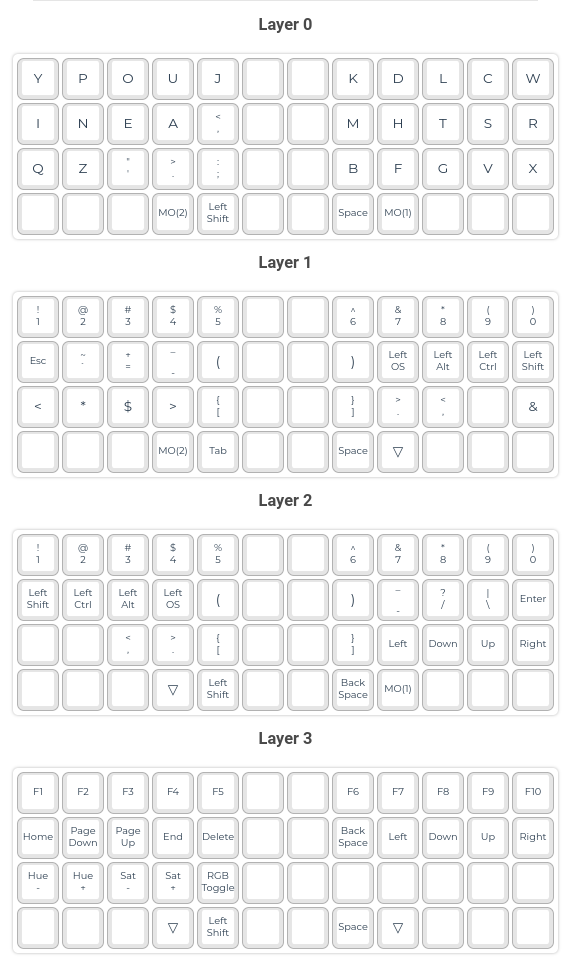
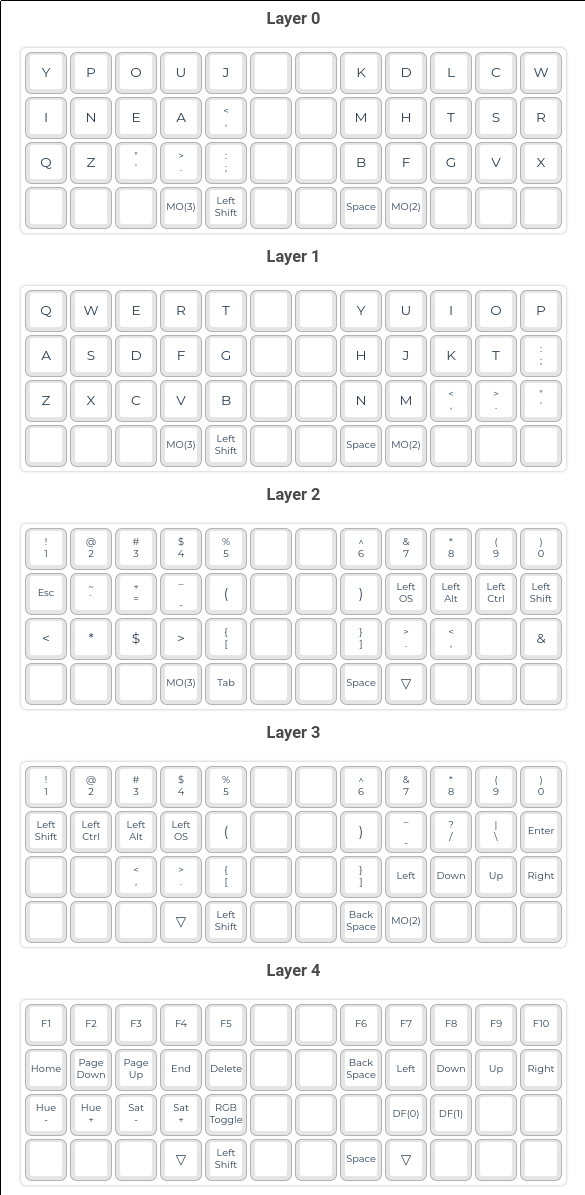
Add QWERTY default layer so friends can try the Planck

diff --git a/keymap.c b/keymap.c
@@ -2,14 +2,17 @@
 
 #include "oneshot.h"
 
-#define LA_ONE MO(ONE)
-#define LA_TWO MO(TWO)
+#define LA_RIGHT  MO(RIGHT)
+#define LA_LEFT   MO(LEFT)
+#define DF_MTGAP  DF(MTGAP)
+#define DF_QWERTY DF(QWERTY)
 
 enum layers {
-    ZERO,
-    ONE,
-    TWO,
-    THREE,
+    MTGAP,
+    QWERTY,
+    RIGHT,
+    LEFT,
+    BOTH,
 };
 
 enum keycodes {
@@ -23,38 +26,46 @@ enum keycodes {
 const uint16_t PROGMEM keymaps[][MATRIX_ROWS][MATRIX_COLS] = {
 
 	[0] = LAYOUT_ortho_4x12(
-                KC_Y,  KC_P,  KC_O,    KC_U,   KC_J,    KC_NO, KC_NO, KC_K,   KC_D,   KC_L,  KC_C,  KC_W,
-                KC_I,  KC_N,  KC_E,    KC_A,   KC_COMM, KC_NO, KC_NO, KC_M,   KC_H,   KC_T,  KC_S,  KC_R,
-                KC_Q,  KC_Z,  KC_QUOT, KC_DOT, KC_SCLN, KC_NO, KC_NO, KC_B,   KC_F,   KC_G,  KC_V,  KC_X,
-                KC_NO, KC_NO, KC_NO,   LA_TWO, KC_LSFT, KC_NO, KC_NO, KC_SPC, LA_ONE, KC_NO, KC_NO, KC_NO
+                KC_Y,   KC_P, KC_O,       KC_U, KC_J,    KC_NO, KC_NO,   KC_K, KC_D,      KC_L, KC_C,  KC_W,
+                KC_I,   KC_N, KC_E,       KC_A, KC_COMM, KC_NO, KC_NO,   KC_M, KC_H,      KC_T, KC_S,  KC_R,
+                KC_Q,   KC_Z, KC_QUOT,  KC_DOT, KC_SCLN, KC_NO, KC_NO,   KC_B, KC_F,      KC_G, KC_V,  KC_X,
+                KC_NO, KC_NO, KC_NO,   LA_LEFT, KC_LSFT, KC_NO, KC_NO, KC_SPC, LA_RIGHT, KC_NO, KC_NO, KC_NO
                 ),
 
 	[1] = LAYOUT_ortho_4x12(
-                KC_1,   KC_2,    KC_3,   KC_4,    KC_5,    KC_NO, KC_NO, KC_6,    KC_7,    KC_8,    KC_9,    KC_0,
-                KC_ESC, KC_GRV,  KC_EQL, KC_MINS, KC_LPRN, KC_NO, KC_NO, KC_RPRN, OS_CMD,  OS_ALT,  OS_CTL,  OS_SFT,
-                KC_LT,  KC_ASTR, KC_DLR, KC_GT,   KC_LBRC, KC_NO, KC_NO, KC_RBRC, KC_DOT,  KC_COMM, KC_NO,   KC_AMPR,
-                KC_NO,  KC_NO,   KC_NO,  LA_TWO,  KC_TAB,  KC_NO, KC_NO, KC_SPC,  KC_TRNS, KC_NO,   KC_NO,   KC_NO
+                KC_Q,  KC_W,  KC_E,  KC_R,    KC_T,    KC_NO, KC_NO, KC_Y,   KC_U,     KC_I,    KC_O,   KC_P,
+                KC_A,  KC_S,  KC_D,  KC_F,    KC_G,    KC_NO, KC_NO, KC_H,   KC_J,     KC_K,    KC_L,   KC_SCLN,
+                KC_Z,  KC_X,  KC_C,  KC_V,    KC_B,    KC_NO, KC_NO, KC_N,   KC_M,     KC_COMM, KC_DOT, KC_QUOT,
+                KC_NO, KC_NO, KC_NO, LA_LEFT, KC_LSFT, KC_NO, KC_NO, KC_SPC, LA_RIGHT, KC_NO,   KC_NO,  KC_NO
                 ),
 
 	[2] = LAYOUT_ortho_4x12(
-                KC_1,    KC_2,    KC_3,    KC_4,    KC_5,    KC_NO, KC_NO, KC_6,    KC_7,    KC_8,    KC_9,    KC_0,
-                OS_SFT,  OS_CTL,  OS_ALT,  OS_CMD,  KC_LPRN, KC_NO, KC_NO, KC_RPRN, KC_MINS, KC_SLSH, KC_BSLS, KC_ENT,
-                KC_NO,   KC_NO,   KC_COMM, KC_DOT,  KC_LBRC, KC_NO, KC_NO, KC_RBRC, KC_LEFT, KC_DOWN, KC_UP,   KC_RGHT,
-                KC_NO,   KC_NO,   KC_NO,   KC_TRNS, KC_LSFT, KC_NO, KC_NO, KC_BSPC, LA_ONE,  KC_NO,   KC_NO,   KC_NO
+                KC_1,   KC_2,    KC_3,   KC_4,    KC_5,    KC_NO, KC_NO, KC_6,    KC_7,    KC_8,    KC_9,   KC_0,
+                KC_ESC, KC_GRV,  KC_EQL, KC_MINS, KC_LPRN, KC_NO, KC_NO, KC_RPRN, OS_CMD,  OS_ALT,  OS_CTL, OS_SFT,
+                KC_LT,  KC_ASTR, KC_DLR, KC_GT,   KC_LBRC, KC_NO, KC_NO, KC_RBRC, KC_DOT,  KC_COMM, KC_NO,  KC_AMPR,
+                KC_NO,  KC_NO,   KC_NO,  LA_LEFT, KC_TAB,  KC_NO, KC_NO, KC_SPC,  KC_TRNS, KC_NO,   KC_NO,  KC_NO
                 ),
 
 	[3] = LAYOUT_ortho_4x12(
-                KC_F1,   KC_F2,   KC_F3,   KC_F4,   KC_F5,   KC_NO, KC_NO, KC_F6,   KC_F7,   KC_F8,   KC_F9, KC_F10,
-                KC_HOME, KC_PGDN, KC_PGUP, KC_END,  KC_DEL,  KC_NO, KC_NO, KC_BSPC, KC_LEFT, KC_DOWN, KC_UP, KC_RGHT,
-                RGB_HUD, RGB_HUI, RGB_SAD, RGB_SAI, RGB_TOG, KC_NO, KC_NO, KC_NO,   KC_NO,   KC_NO,   KC_NO, KC_NO,
-                KC_NO,   KC_NO,   KC_NO,   KC_TRNS, KC_LSFT, KC_NO, KC_NO, KC_SPC,  KC_TRNS, KC_NO,   KC_NO, KC_NO
-                )
+                KC_1,   KC_2,   KC_3,    KC_4,    KC_5,    KC_NO, KC_NO, KC_6,    KC_7,     KC_8,    KC_9,    KC_0,
+                OS_SFT, OS_CTL, OS_ALT,  OS_CMD,  KC_LPRN, KC_NO, KC_NO, KC_RPRN, KC_MINS,  KC_SLSH, KC_BSLS, KC_ENT,
+                KC_NO,  KC_NO,  KC_COMM, KC_DOT,  KC_LBRC, KC_NO, KC_NO, KC_RBRC, KC_LEFT,  KC_DOWN, KC_UP,   KC_RGHT,
+                KC_NO,  KC_NO,  KC_NO,   KC_TRNS, KC_LSFT, KC_NO, KC_NO, KC_BSPC, LA_RIGHT, KC_NO,   KC_NO,   KC_NO
+                ),
+
+	[4] = LAYOUT_ortho_4x12(
+                KC_F1,   KC_F2,   KC_F3,   KC_F4,   KC_F5,   KC_NO, KC_NO, KC_F6,   KC_F7,    KC_F8,     KC_F9, KC_F10,
+                KC_HOME, KC_PGDN, KC_PGUP, KC_END,  KC_DEL,  KC_NO, KC_NO, KC_BSPC, KC_LEFT,  KC_DOWN,   KC_UP, KC_RGHT,
+                RGB_HUD, RGB_HUI, RGB_SAD, RGB_SAI, RGB_TOG, KC_NO, KC_NO, KC_NO,   DF_MTGAP, DF_QWERTY, KC_NO, KC_NO,
+                KC_NO,   KC_NO,   KC_NO,   KC_TRNS, KC_LSFT, KC_NO, KC_NO, KC_SPC,  KC_TRNS,  KC_NO,     KC_NO, KC_NO
+                ),
+
 };
 
 bool is_oneshot_cancel_key(uint16_t keycode) {
     switch (keycode) {
-    case LA_ONE:
-    case LA_TWO:
+    case LA_RIGHT:
+    case LA_LEFT:
         return true;
     default:
         return false;
@@ -63,8 +74,8 @@ bool is_oneshot_cancel_key(uint16_t keycode) {
 
 bool is_oneshot_ignored_key(uint16_t keycode) {
     switch (keycode) {
-    case LA_ONE:
-    case LA_TWO:
+    case LA_RIGHT:
+    case LA_LEFT:
     case KC_LSFT:
     case OS_SFT:
     case OS_CTL:
@@ -102,5 +113,5 @@ bool process_record_user(uint16_t keycode, keyrecord_t *record) {
 }
 
 layer_state_t layer_state_set_user(layer_state_t state) {
-    return update_tri_layer_state(state, ONE, TWO, THREE);
+    return update_tri_layer_state(state, RIGHT, LEFT, BOTH);
 }

diff --git a/README.md b/README.md
@@ -1,20 +1,24 @@
 # Planck MTGAP layout
 
-This is a variant [MTGAP](https://mathematicalmulticore.wordpress.com/) layout
-for the Planck 4x12 ortho keyboard, restructured as a 2x(3x5+2) split layout.
+This is a five-layer QMK keymap for the
+[Planck 4x12 ortho keyboard](https://www.google.com/search?q=planck%20keyboard),
+restructured as a 2x(3x5+2) split layout.
 That is, each hand has 3x5 keys for the fingers and two for the thumbs.
 
-The layout has 4 layers, controlled by `MO(1)` and `MO(2)` keys, which when held
-switch to layers 1 and 2, respectively, and layer 3 when both are held.
-
-The modifier keys on layers 1 and 2 are "one-shot", meaning they will be sticky
-when the layers are released and used for the next keypress.
+0 [MTGAP](https://mathematicalmulticore.wordpress.com/the-keyboard-layout-project/) default layer.
+0 [QWERTY](https://en.wikipedia.org/wiki/QWERTY) default layer.
+0 RH MO(*layer*): modifiers, numbers, symbols, **Escape**.
+0 LH MO(*layer*): modifiers, numbers, symbols, **Enter**, arrow keys.
+0 Both MO(..) keys: function keys, page up/down, arrow keys, backlight, switch default layers.
 
 ![Rendering of keymap layers](https://github.com/instinctive/qmk-planck/blob/main/doc/instinctive.png?raw=true)
 
+The home row modifier keys are "one-shot", meaning they will be sticky
+when the layers are released and used for the next keypress.
+
 ## Numbers
 
-I kept the number keys in their usual spots, available on both layers 1 and 2.
+I kept the number keys in their usual spots.
 The period and comma characters are often typed with numbers, and they are
 available to the index and middle fingers while the thumb holds the layer key.
 
